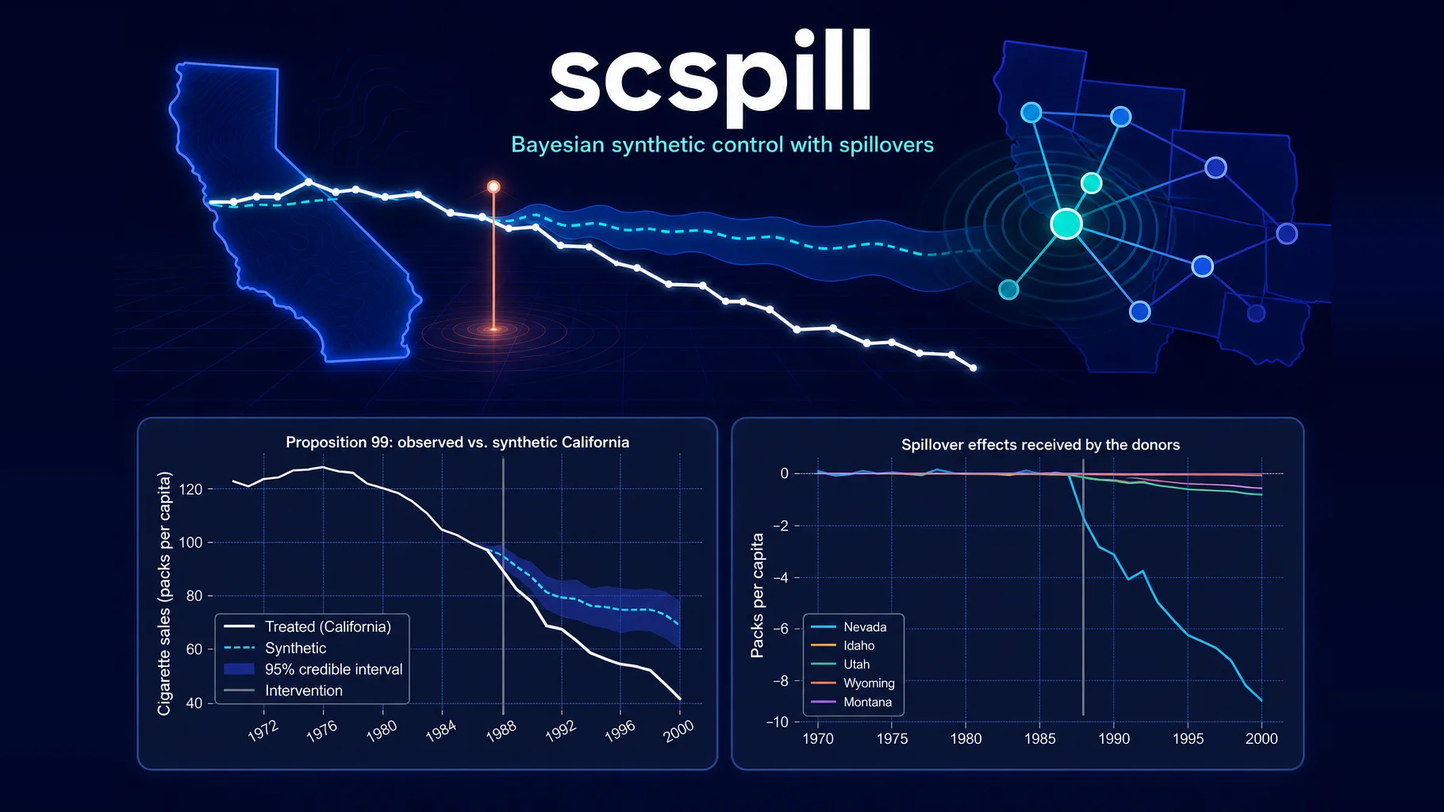
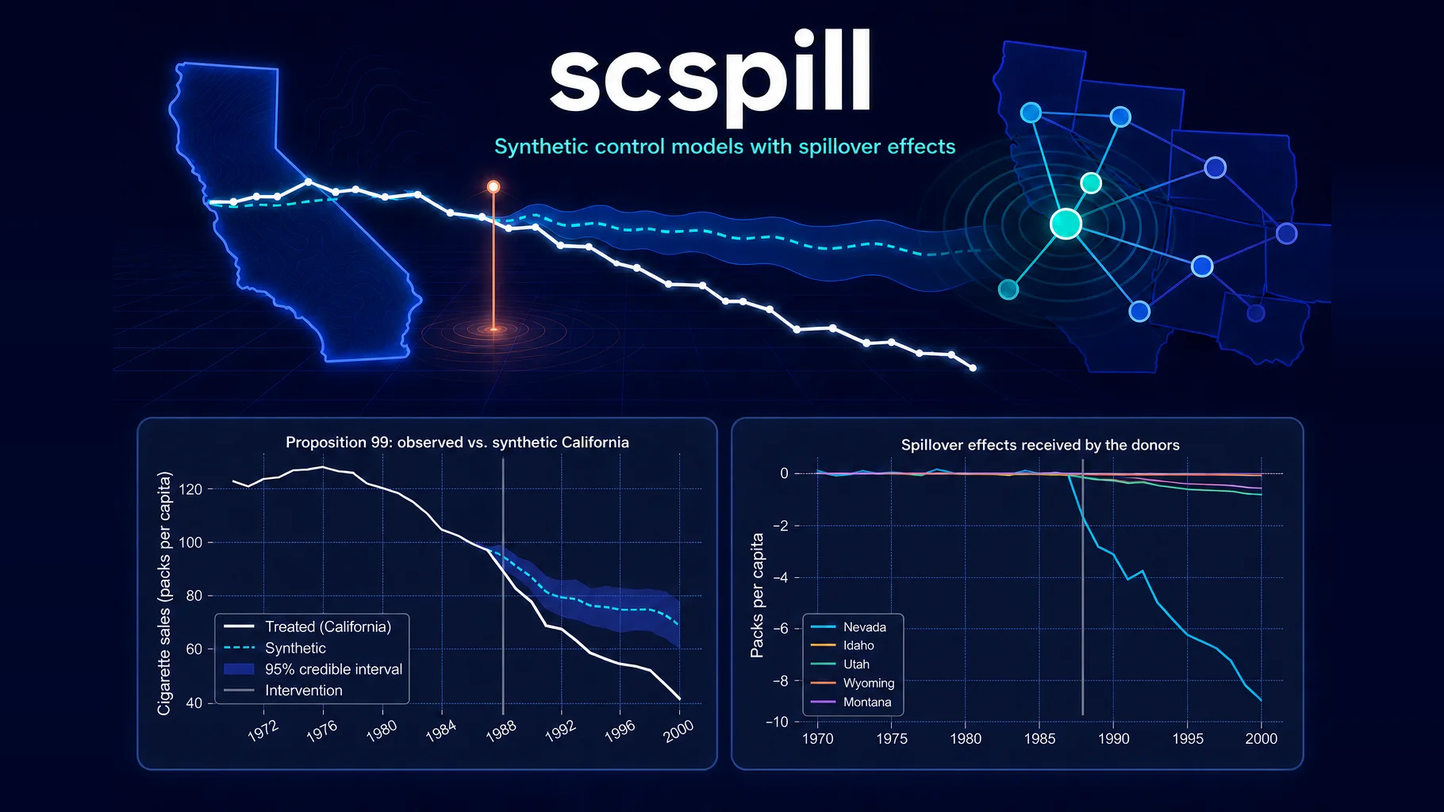
content(projects): update scspill page for library v0.2.0 (EN/ES/JA)
Upstream repositioned scspill from a single estimator to a package of
synthetic control models. The page follows: the middle card moves from
"The method" to Models (/models/), since articles/method.html is now
only a redirect stub; it names sar as the one shipping model and lists
the three roadmap models as explicitly not implemented.

Acknowledgement now mirrors the README — method and original R/C++ by
Sakaguchi & Tagawa (co-authors of the library on that basis), Python
implementation by Carlos Mendez — and adds both citations plus the new
article DOI (10.1093/ectj/utag006).

Featured image regenerated from hero-v5.png, padded 1536x1024 ->
1820x1024 for a crop-free 16:9 card. Models button uses fas layer-group
(valid in the theme's Font Awesome 5.14).

The English summary is quoted: "two estimands: the effect ..." contains
a bare ": ", which YAML would otherwise read as a mapping.

Claude-Session: https://claude.ai/code/session_01NfQ4LymHhhypi5GgLai3dD

diff --git a/content/cv/main.tex b/content/cv/main.tex
@@ -467,7 +467,7 @@ Causes and policy challenges. In Otsubo S. (Ed.), \textit{Globalization and Deve
 
 \cvitem{2026}{expdpy: A Python library to explore panel data interactively. \cvlink{https://cmg777.github.io/expdpy/}{Website}}
 \cvitem{2026}{geometrics: A Python library to study regional growth, convergence, and inequality. \cvlink{https://quarcs-lab.github.io/geometrics/}{Website}}
-\cvitem{2026}{scspill: A Python library for Bayesian synthetic control with spillover effects. \cvlink{https://quarcs-lab.github.io/scspill/}{Website}}
+\cvitem{2026}{scspill: A Python package of synthetic control models with spillover effects. \cvlink{https://quarcs-lab.github.io/scspill/}{Website}}
 
 \subsection{Databases}
 

diff --git a/content/es/projects/scspill/index.md b/content/es/projects/scspill/index.md
@@ -4,7 +4,7 @@ external_link: ""
 image:
   caption: ""
   focal_point: Smart
-summary: "Una biblioteca de Python para el control sintético bayesiano cuando el tratamiento se filtra: relaja el supuesto SUTVA mediante un canal autorregresivo espacial y estima tanto el efecto sobre la unidad tratada como el desbordamiento (spillover) que recibe cada donante, con incertidumbre bayesiana completa."
+summary: "Un paquete de Python con modelos de control sintético que abandonan el supuesto SUTVA sobre el grupo de donantes: se permite que el tratamiento alcance a los controles y cada modelo informa dos estimandos, el efecto sobre la unidad tratada, libre de contaminación, y el desbordamiento (spillover) que recibe cada donante."
 tags:
 - python
 - causal
@@ -28,10 +28,10 @@ links:
     url: "https://quarcs-lab.github.io/scspill/get-started.html"
     icon_pack: fas
     icon: rocket
-  - name: "El método"
-    url: "https://quarcs-lab.github.io/scspill/articles/method.html"
+  - name: "Modelos"
+    url: "https://quarcs-lab.github.io/scspill/models/"
     icon_pack: fas
-    icon: square-root-alt
+    icon: layer-group
   - name: "Validación"
     url: "https://quarcs-lab.github.io/scspill/articles/validation.html"
     icon_pack: fas
@@ -50,35 +50,35 @@ url_slides: ""
 url_video: ""
 ---
 
-**Control sintético cuando el tratamiento se filtra: el efecto de la política *y* el desbordamiento que recibe cada donante.**
+**Control sintético cuando el tratamiento se filtra: el efecto sobre la unidad tratada *y* el desbordamiento que recibe cada donante.**
 
-`scspill` es una implementación en Python del control sintético bayesiano con desbordamientos espaciales de [Sakaguchi y Tagawa](https://quarcs-lab.github.io/scspill/articles/method.html) (*Identification and Bayesian Inference for Synthetic Control Methods with Spillover Effects*, The Econometrics Journal). El control sintético clásico supone que los donantes no son afectados por la política; cuando el tratamiento se filtra a través de fronteras o redes comerciales, ese supuesto se incumple y la estimación queda sesgada. `scspill` relaja el supuesto SUTVA permitiendo que el tratamiento se desborde hacia el grupo de donantes mediante un **canal autorregresivo espacial** con pesos definidos por usted, e informa el efecto sobre la unidad tratada, el desbordamiento que recibe cada donante y la intensidad del desbordamiento, cada uno con incertidumbre bayesiana completa. Los pesos sintéticos emplean **regularización de tipo herradura (horseshoe) sin restricción de símplex**, de modo que los donantes pueden quedar excluidos, entrar con signo negativo o extrapolar. El estimador sigue la arquitectura de [mlsynth](https://github.com/jgreathouse9/mlsynth) —una configuración de pydantic a la entrada y un objeto de resultados estandarizado a la salida—, por lo que ambas bibliotecas se combinan con naturalidad.
+`scspill` es un paquete de Python con modelos de control sintético que abandonan el supuesto SUTVA sobre el grupo de donantes. Se permite que el tratamiento alcance a los controles y cada modelo informa dos estimandos: el efecto sobre la unidad tratada, libre de contaminación, y el efecto de desbordamiento que recibe cada donante, algo que el control sintético clásico no puede expresar en absoluto. El modelo disponible hoy, `sar`, canaliza los desbordamientos a través de los pesos espaciales que usted defina, escalados por una única intensidad ρ que se **estima en lugar de suponerse**; ajusta pesos sintéticos con contracción de tipo herradura (horseshoe) y sin restricciones, de modo que los donantes pueden quedar excluidos, entrar con signo negativo o extrapolar, y devuelve incertidumbre bayesiana completa para ambos estimandos. Cuando ρ = 0 se reduce exactamente al control sintético bayesiano de tipo herradura. La arquitectura del estimador sigue a [mlsynth](https://github.com/jgreathouse9/mlsynth) —una configuración de pydantic a la entrada y un objeto de resultados estandarizado a la salida— y los nombres de `method` coinciden con los de su despachador `SPILLSYNTH`, por lo que ambas bibliotecas se combinan con naturalidad.
 
 ### 🚀 [Primeros pasos](https://quarcs-lab.github.io/scspill/get-started.html)
 
-Estime el modelo con la Proposición 99 de California en unas diez líneas: el **ATT con un intervalo de credibilidad del 95 %**, la intensidad del desbordamiento ρ, el desbordamiento año por año que recibe cada donante, los diagnósticos MCMC y los gráficos contrafactuales.
+Estime un modelo con la Proposición 99 de California en unas diez líneas: el **ATT con un intervalo de credibilidad del 95 %**, la intensidad del desbordamiento ρ, el desbordamiento año por año que recibe cada donante, los diagnósticos MCMC y los gráficos contrafactuales.
 
 [▶ Abrir en Colab](https://colab.research.google.com/github/quarcs-lab/scspill/blob/main/notebooks/california.ipynb)
 
-### 📐 [El método](https://quarcs-lab.github.io/scspill/articles/method.html)
+### 🧬 [Modelos](https://quarcs-lab.github.io/scspill/models/)
 
-La identificación y el **muestreador bayesiano de dos etapas**: pesos sintéticos de tipo herradura, el bloque de desbordamiento SAR y Metropolis adaptativo para la intensidad del desbordamiento. También documenta las opciones por defecto que se apartan de la implementación de referencia en R: cada una cuenta con una vía de escape y una comparación que cuantifica la diferencia.
+Hoy se distribuye un modelo: [`sar`](https://quarcs-lab.github.io/scspill/models/sar.html), el control sintético bayesiano con desbordamiento autorregresivo espacial de [Sakaguchi y Tagawa (2026)](https://doi.org/10.1093/ectj/utag006). Otros tres modelos que incorporan desbordamientos están en la [hoja de ruta](https://quarcs-lab.github.io/scspill/models/#planned): el de Cao y Dowd, el control sintético inclusivo de Di Stefano y Mellace, y el SCG con interferencia parcial de Grossi y coautores. **No están implementados**, y `SCSPILLConfig` rechaza sus nombres en lugar de recurrir a otro modelo de forma silenciosa.
 
 ### 🧪 [Validación](https://quarcs-lab.github.io/scspill/articles/validation.html)
 
-La evidencia de que el muestreador es correcto: la **prueba de distribución conjunta de Geweke (2004)**, cuadrículas de sensibilidad a las distribuciones a priori, verificaciones predictivas a priori y validación cruzada frente a los intervalos de credibilidad congelados del código en R de los autores.
+La evidencia de que el muestreador de `sar` es correcto: la **prueba de distribución conjunta de Geweke (2004)**, cuadrículas de sensibilidad a las distribuciones a priori, verificaciones predictivas a priori y validación cruzada frente a los intervalos de credibilidad congelados del código en R de los autores.
 
 ## Qué incluye
 
-**Estimación** — `SCSPILL(config).fit()` devuelve el ATT y su intervalo de credibilidad, la trayectoria contrafactual, la distribución posterior de ρ, un panel de desbordamientos por tiempo y donante, y los diagnósticos MCMC.
+**`scspill`** — la capa de modelos. `SCSPILL(config).fit()` devuelve el ATT y su intervalo de credibilidad, la trayectoria contrafactual, la distribución posterior de ρ, un panel de desbordamientos por tiempo y donante, y los diagnósticos MCMC.
 
-**Validación** — `scspill.validation` implementa la prueba de distribución conjunta de Geweke, las cuadrículas de sensibilidad a las distribuciones a priori y las verificaciones predictivas a priori.
+**`scspill.validation`** — la validación del muestreador de `sar`: la prueba de distribución conjunta de Geweke, las cuadrículas de sensibilidad a las distribuciones a priori y las verificaciones predictivas a priori.
 
-**Simulación** — `scspill.simulate` reproduce el [estudio de Monte Carlo](https://quarcs-lab.github.io/scspill/articles/simulation-study.html) del artículo: un proceso generador de datos SAR sobre una retícula de contigüidad tipo torre y la comparación SCM / BSCM / SCSPILL que sustenta los cuadros 1 y 2.
+**`scspill.simulate`** — el [motor de Monte Carlo](https://quarcs-lab.github.io/scspill/articles/simulation-study.html) de `sar`: un proceso generador de datos SAR sobre una retícula de contigüidad tipo torre y la comparación SCM / BSCM / SCSPILL que sustenta los cuadros 1 y 2 del artículo.
 
-**Datos** — `scspill.data` incluye los dos casos de estudio que se describen a continuación, cada uno con su panel y sus matrices de pesos espaciales.
+**`scspill.data`** — los paneles de desbordamiento que se describen más abajo. Son independientes del modelo, así que cualquier modelo que se añada más adelante podrá usarlos sin cambios.
 
-**Validación cruzada con el paquete de replicación en R** — las distribuciones posteriores de California y Sudán se contrastan con los intervalos de credibilidad congelados en R de los autores, la cuadrícula de Monte Carlo con los cuadros congelados del artículo, y los estadísticos predictivos a priori hasta el tercer decimal.
+**`sar` está validado, no solo implementado** — se contrasta con el paquete de replicación en R de los autores: las distribuciones posteriores de California y Sudán frente a los intervalos de credibilidad congelados en R, la cuadrícula de Monte Carlo frente a los cuadros congelados del artículo, y los estadísticos predictivos a priori hasta el tercer decimal. Las opciones por defecto son *fieles al artículo*: se corrigen varios errores documentados de la implementación de referencia, cada uno con una vía de escape o una comparación que cuantifica la diferencia. Véase la [página del modelo `sar`](https://quarcs-lab.github.io/scspill/models/sar.html).
 
 ## Casos de estudio incluidos
 
@@ -101,7 +101,7 @@ Requiere Python 3.10 o superior.
 
 ## De un vistazo
 
-Cargue un caso de estudio incluido, ajuste el muestreador y lea tanto el efecto del tratamiento como los desbordamientos:
+Cargue un caso de estudio incluido, ajuste el muestreador y lea ambos estimandos:
 
 ```python
 from scspill import SCSPILL
@@ -119,7 +119,7 @@ result.diagnostics()               # ESS / R-hat / MCSE per chain
 result.plot(kind="panel")          # counterfactual | effect | top spillovers
 ```
 
-Diríjase a [Primeros pasos](https://quarcs-lab.github.io/scspill/get-started.html), [El método](https://quarcs-lab.github.io/scspill/articles/method.html) y [Validación](https://quarcs-lab.github.io/scspill/articles/validation.html) para ver el estimador en acción.
+Diríjase a [Primeros pasos](https://quarcs-lab.github.io/scspill/get-started.html), [Modelos](https://quarcs-lab.github.io/scspill/models/) y [Validación](https://quarcs-lab.github.io/scspill/articles/validation.html) para ver los estimadores en acción.
 
 ## Construido sobre
 
@@ -133,4 +133,12 @@ Diríjase a [Primeros pasos](https://quarcs-lab.github.io/scspill/get-started.ht
 
 ## Agradecimiento
 
-El método y su implementación de referencia son de Shosei Sakaguchi y Hayato Tagawa; la arquitectura del estimador sigue a [mlsynth](https://github.com/jgreathouse9/mlsynth), de Jared Greathouse. Este paquete es una adaptación independiente a Python desarrollada en el [QuaRCS Lab](https://quarcs-lab.org) (Ciencia Regional Cuantitativa y Computacional) y se distribuye bajo la licencia MIT. Si utiliza `scspill` en su investigación, cite el artículo metodológico y el software (consulte [`CITATION.cff`](https://github.com/quarcs-lab/scspill/blob/main/CITATION.cff)).
+El método y la implementación original en R/C++ son obra de Shosei Sakaguchi y Hayato Tagawa, quienes por ello figuran como coautores de esta biblioteca; la implementación en Python es de Carlos Mendez. Su [paquete de replicación](https://doi.org/10.5281/zenodo.19066186) se distribuye bajo licencia MIT, y cada versión de `scspill` se valida de forma cruzada frente a sus resultados congelados. La arquitectura del estimador sigue a [mlsynth](https://github.com/jgreathouse9/mlsynth), de Jared Greathouse; la infraestructura de documentación sigue al paquete [geometrics](https://github.com/quarcs-lab/geometrics) del QuaRCS Lab.
+
+Si utiliza `scspill`, cite tanto el software como el artículo metodológico (los metadatos legibles por máquina están en [`CITATION.cff`](https://github.com/quarcs-lab/scspill/blob/main/CITATION.cff)):
+
+> Mendez, C., Sakaguchi, S., & Tagawa, H. (2026). *Synthetic Control Models with Spillovers in Python* (version 0.2.0). <https://github.com/quarcs-lab/scspill>
+
+> Sakaguchi, S., & Tagawa, H. (2026). Identification and Bayesian Inference for Synthetic Control Methods with Spillover Effects. *The Econometrics Journal*. <https://doi.org/10.1093/ectj/utag006>
+
+Distribuido bajo la licencia MIT.

diff --git a/content/ja/projects/scspill/index.md b/content/ja/projects/scspill/index.md
@@ -4,7 +4,7 @@ external_link: ""
 image:
   caption: ""
   focal_point: Smart
-summary: 処理が漏れ出す状況におけるベイズ的合成コントロールのためのPythonライブラリ。空間自己回帰チャネルを通じてSUTVAを緩め、処理群への効果と各ドナーが受け取るスピルオーバーの双方を、完全なベイズ的不確実性とともに推定します。
+summary: ドナープールに対するSUTVAを外した合成コントロールモデルのPythonパッケージ。処理がコントロール群に及ぶことを許し、いずれのモデルも2つの推定対象——汚染を取り除いた処理群への効果と、各ドナーが受け取るスピルオーバー——を報告します。
 tags:
 - python
 - causal
@@ -28,10 +28,10 @@ links:
     url: "https://quarcs-lab.github.io/scspill/get-started.html"
     icon_pack: fas
     icon: rocket
-  - name: "手法"
-    url: "https://quarcs-lab.github.io/scspill/articles/method.html"
+  - name: "モデル"
+    url: "https://quarcs-lab.github.io/scspill/models/"
     icon_pack: fas
-    icon: square-root-alt
+    icon: layer-group
   - name: "検証"
     url: "https://quarcs-lab.github.io/scspill/articles/validation.html"
     icon_pack: fas
@@ -50,9 +50,9 @@ url_slides: ""
 url_video: ""
 ---
 
-**処理が漏れ出すときの合成コントロール — 政策効果と、各ドナーが受け取るスピルオーバーを。**
+**処理が漏れ出すときの合成コントロール — 処理群への効果と、各ドナーが受け取るスピルオーバーを。**
 
-`scspill` は、[Sakaguchi・Tagawa](https://quarcs-lab.github.io/scspill/articles/method.html)（*Identification and Bayesian Inference for Synthetic Control Methods with Spillover Effects*, The Econometrics Journal）による空間スピルオーバー付きベイズ合成コントロールのPython実装です。従来の合成コントロールは、ドナーが政策の影響を受けないと仮定します。しかし処理が国境や貿易ネットワークを越えて漏れ出すと、この仮定は成り立たず推定値にバイアスが生じます。`scspill` は、ユーザーが指定した重みによる**空間自己回帰チャネル**を通じて処理がドナープールへ波及することを許し、SUTVAを緩めます。そのうえで、処理群への効果、各ドナーが受け取るスピルオーバー、スピルオーバーの強度を、いずれも完全なベイズ的不確実性とともに報告します。合成ウェイトには**単体制約を課さないホースシュー（horseshoe）正則化**を用いるため、ドナーは除外されることも、負の値をとることも、外挿することもできます。推定器は [mlsynth](https://github.com/jgreathouse9/mlsynth) のアーキテクチャ（pydanticの設定を入力とし、標準化された結果オブジェクトを出力する）に従っており、両ライブラリは自然に組み合わせられます。
+`scspill` は、ドナープールに対するSUTVAを外した合成コントロールモデルのPythonパッケージです。処理がコントロール群に及ぶことを許し、いずれのモデルも2つの推定対象を報告します。すなわち、汚染を取り除いた処理群への効果と、各ドナーが受け取るスピルオーバー効果です。後者は従来の合成コントロールでは表現すること自体ができません。現在利用できるモデル `sar` は、ユーザーが指定した空間重みを通じてスピルオーバーを伝え、その大きさを単一の強度パラメータ ρ で調整します。この ρ は**仮定するのではなく推定されます**。合成ウェイトは制約を課さないホースシュー（horseshoe）縮小推定で求めるため、ドナーは除外されることも、負の値をとることも、外挿することもできます。そして2つの推定対象いずれについても完全なベイズ的不確実性を返します。ρ = 0 のとき、モデルはベイズ的ホースシュー合成コントロールに厳密に一致します。推定器のアーキテクチャは [mlsynth](https://github.com/jgreathouse9/mlsynth)（pydanticの設定を入力とし、標準化された結果オブジェクトを出力する）に従い、`method` の名称は同ライブラリの `SPILLSYNTH` ディスパッチャと一致するため、両者は自然に組み合わせられます。
 
 ### 🚀 [はじめに](https://quarcs-lab.github.io/scspill/get-started.html)
 
@@ -60,25 +60,25 @@ url_video: ""
 
 [▶ Colab で開く](https://colab.research.google.com/github/quarcs-lab/scspill/blob/main/notebooks/california.ipynb)
 
-### 📐 [手法](https://quarcs-lab.github.io/scspill/articles/method.html)
+### 🧬 [モデル](https://quarcs-lab.github.io/scspill/models/)
 
-識別と**2段階のベイズサンプラー**を解説します。ホースシュー合成ウェイト、SARスピルオーバーブロック、スピルオーバー強度に対する適応的メトロポリス法。さらに、R版の参照実装と異なる既定の設定についても記載しており、それぞれに従来挙動へ戻す手段と差分を定量化したベンチマークが用意されています。
+現在提供されているモデルは1つ、[`sar`](https://quarcs-lab.github.io/scspill/models/sar.html) です。[Sakaguchi・Tagawa (2026)](https://doi.org/10.1093/ectj/utag006) による、空間自己回帰型スピルオーバーを備えたベイズ合成コントロールです。さらに3つのスピルオーバー対応モデルが[ロードマップ](https://quarcs-lab.github.io/scspill/models/#planned)にあります。Cao・Dowd のモデル、Di Stefano・Mellace の包括的合成コントロール、Grossi ほかによる部分干渉SCGです。これらは**未実装**であり、`SCSPILLConfig` はこれらの名称を黙って別のモデルで代替せず、明示的に拒否します。
 
 ### 🧪 [検証](https://quarcs-lab.github.io/scspill/articles/validation.html)
 
-サンプラーが正しいことを示す証拠です。**Geweke (2004) の同時分布検定**、事前分布の感度グリッド、事前予測チェック、そして著者らのR実装による固定済み信用区間との交差検証。
+`sar` のサンプラーが正しいことを示す証拠です。**Geweke (2004) の同時分布検定**、事前分布の感度グリッド、事前予測チェック、そして著者らのR実装による固定済み信用区間との交差検証。
 
 ## 機能の概要
 
-**推定** — `SCSPILL(config).fit()` は、ATTとその信用区間、反事実の経路、ρ の事後分布、時点×ドナーのスピルオーバーパネル、MCMC診断を返します。
+**`scspill`** — モデル層。`SCSPILL(config).fit()` は、ATTとその信用区間、反事実の経路、ρ の事後分布、時点×ドナーのスピルオーバーパネル、MCMC診断を返します。
 
-**検証** — `scspill.validation` は、Gewekeの同時分布検定、事前分布の感度グリッド、事前予測チェックを実装します。
+**`scspill.validation`** — `sar` のサンプラー検証。Gewekeの同時分布検定、事前分布の感度グリッド、事前予測チェック。
 
-**シミュレーション** — `scspill.simulate` は、論文の[モンテカルロ研究](https://quarcs-lab.github.io/scspill/articles/simulation-study.html)を再現します。ルーク型格子によるSARデータ生成過程と、表1・表2の基礎となる SCM / BSCM / SCSPILL の比較です。
+**`scspill.simulate`** — `sar` の[モンテカルロエンジン](https://quarcs-lab.github.io/scspill/articles/simulation-study.html)。ルーク型格子によるSARデータ生成過程と、論文の表1・表2の基礎となる SCM / BSCM / SCSPILL の比較です。
 
-**データ** — `scspill.data` には、以下の2つのケーススタディが、パネルと空間重み行列とともに同梱されています。
+**`scspill.data`** — 以下のスピルオーバーパネル。モデルに依存しない形式のため、今後追加されるモデルでもそのまま利用できます。
 
-**R版レプリケーションパッケージとの交差検証** — カリフォルニアとスーダンの事後分布は著者らのR版の固定済み信用区間と、モンテカルロのグリッドは論文の固定済み表と、事前予測統計量は小数第3位まで照合されています。
+**`sar` は実装されているだけでなく検証されています** — 著者らのRレプリケーションパッケージと交差検証されています。カリフォルニアとスーダンの事後分布は固定済みのR信用区間と、モンテカルロのグリッドは論文の固定済みの表と、事前予測統計量は小数第3位まで照合されています。既定の設定は*論文に忠実*で、参照実装に残る複数の既知の不具合が修正されており、それぞれに従来挙動へ戻す手段か差分を定量化したベンチマークが用意されています。詳しくは [`sar` モデルのページ](https://quarcs-lab.github.io/scspill/models/sar.html)をご覧ください。
 
 ## 付属のケーススタディ
 
@@ -101,7 +101,7 @@ Python 3.10 以上が必要です。
 
 ## ひと目で
 
-付属のケーススタディを読み込み、サンプラーを実行して、処理効果とスピルオーバーの双方を確認します。
+付属のケーススタディを読み込み、サンプラーを実行して、2つの推定対象を確認します。
 
 ```python
 from scspill import SCSPILL
@@ -119,7 +119,7 @@ result.diagnostics()               # ESS / R-hat / MCSE per chain
 result.plot(kind="panel")          # counterfactual | effect | top spillovers
 ```
 
-推定器の動きは、[はじめに](https://quarcs-lab.github.io/scspill/get-started.html)、[手法](https://quarcs-lab.github.io/scspill/articles/method.html)、[検証](https://quarcs-lab.github.io/scspill/articles/validation.html)でご覧いただけます。
+推定器の動きは、[はじめに](https://quarcs-lab.github.io/scspill/get-started.html)、[モデル](https://quarcs-lab.github.io/scspill/models/)、[検証](https://quarcs-lab.github.io/scspill/articles/validation.html)でご覧いただけます。
 
 ## 基盤
 
@@ -133,4 +133,12 @@ result.plot(kind="panel")          # counterfactual | effect | top spillovers
 
 ## 謝辞
 
-手法とその参照実装は Shosei Sakaguchi 氏と Hayato Tagawa 氏によるものです。推定器のアーキテクチャは Jared Greathouse 氏の [mlsynth](https://github.com/jgreathouse9/mlsynth) に倣っています。本パッケージは [QuaRCS Lab](https://quarcs-lab.org)（計量地域・計算科学）で開発された独立のPython移植版であり、MITライセンスで公開されています。研究で `scspill` をご利用の際は、方法論の論文とソフトウェア（[`CITATION.cff`](https://github.com/quarcs-lab/scspill/blob/main/CITATION.cff) を参照）を引用してください。
+手法とオリジナルのR/C++実装は Shosei Sakaguchi 氏と Hayato Tagawa 氏によるものであり、両氏はその貢献に基づき本ライブラリの共著者として記載されています。Python実装は Carlos Mendez によるものです。両氏の[レプリケーションパッケージ](https://doi.org/10.5281/zenodo.19066186)はMITライセンスで公開されており、`scspill` の各リリースはその固定済みの結果と交差検証されています。推定器のアーキテクチャは Jared Greathouse 氏の [mlsynth](https://github.com/jgreathouse9/mlsynth) に、ドキュメント基盤は QuaRCS Lab の [geometrics](https://github.com/quarcs-lab/geometrics) パッケージに倣っています。
+
+`scspill` をご利用の際は、ソフトウェアと方法論の論文の両方を引用してください（機械可読なメタデータは [`CITATION.cff`](https://github.com/quarcs-lab/scspill/blob/main/CITATION.cff) にあります）。
+
+> Mendez, C., Sakaguchi, S., & Tagawa, H. (2026). *Synthetic Control Models with Spillovers in Python* (version 0.2.0). <https://github.com/quarcs-lab/scspill>
+
+> Sakaguchi, S., & Tagawa, H. (2026). Identification and Bayesian Inference for Synthetic Control Methods with Spillover Effects. *The Econometrics Journal*. <https://doi.org/10.1093/ectj/utag006>
+
+MITライセンスで公開されています。

diff --git a/content/projects/scspill/index.md b/content/projects/scspill/index.md
@@ -4,7 +4,7 @@ external_link: ""
 image:
   caption: ""
   focal_point: Smart
-summary: A Python library for Bayesian synthetic control when the treatment leaks — it relaxes SUTVA through a spatial-autoregressive channel and estimates both the effect on the treated unit and the spillover received by every donor, with full Bayesian uncertainty.
+summary: "A Python package of synthetic control models that drop SUTVA on the donor pool — the treatment is allowed to reach the controls, and every model reports two estimands: the effect on the treated unit, purged of contamination, and the spillover received by each donor."
 tags:
 - python
 - causal
@@ -28,10 +28,10 @@ links:
     url: "https://quarcs-lab.github.io/scspill/get-started.html"
     icon_pack: fas
     icon: rocket
-  - name: "The method"
-    url: "https://quarcs-lab.github.io/scspill/articles/method.html"
+  - name: "Models"
+    url: "https://quarcs-lab.github.io/scspill/models/"
     icon_pack: fas
-    icon: square-root-alt
+    icon: layer-group
   - name: "Validation"
     url: "https://quarcs-lab.github.io/scspill/articles/validation.html"
     icon_pack: fas
@@ -50,35 +50,35 @@ url_slides: ""
 url_video: ""
 ---
 
-**Synthetic control when the treatment leaks — the policy effect *and* the spillover received by every donor.**
+**Synthetic control when the treatment leaks — the effect on the treated unit *and* the spillover received by every donor.**
 
-`scspill` is a Python implementation of the Bayesian spatial-spillover synthetic control of [Sakaguchi & Tagawa](https://quarcs-lab.github.io/scspill/articles/method.html) (*Identification and Bayesian Inference for Synthetic Control Methods with Spillover Effects*, The Econometrics Journal). Classical synthetic control assumes the donors are untouched by the policy; when the treatment leaks across borders or trade networks that assumption fails and the estimate is biased. `scspill` relaxes SUTVA by letting the treatment spill over to the donor pool through a **spatial-autoregressive channel** with user-supplied weights, and reports the effect on the treated unit, the spillover received by each donor, and the spillover intensity — each with full Bayesian uncertainty. The synthetic weights use **horseshoe regularization without a simplex constraint**, so donors may be dropped, enter negatively, or extrapolate. The estimator follows the [mlsynth](https://github.com/jgreathouse9/mlsynth) architecture — a pydantic config in, a standardized results object out — so the two libraries compose naturally.
+`scspill` is a Python package of synthetic control models that drop SUTVA on the donor pool. The treatment is allowed to reach the controls, and every model reports two estimands: the effect on the treated unit, purged of the contamination, and the spillover effect received by each donor — something classical synthetic control cannot express at all. The model available today, `sar`, routes spillovers through spatial weights you supply, scaled by a single intensity ρ that is **estimated rather than assumed**; it fits unconstrained horseshoe-shrunk synthetic weights, so donors may be dropped, enter negatively, or extrapolate, and it returns full Bayesian uncertainty for both estimands. At ρ = 0 it collapses exactly to the Bayesian horseshoe synthetic control. The estimator architecture follows [mlsynth](https://github.com/jgreathouse9/mlsynth) — a pydantic config in, a standardized results object out — and the `method` names match its `SPILLSYNTH` dispatcher, so the two libraries compose naturally.
 
 ### 🚀 [Get started](https://quarcs-lab.github.io/scspill/get-started.html)
 
-Fit the model on California's Proposition 99 in about ten lines: the **ATT with a 95% credible interval**, the spillover intensity ρ, the year-by-year spillover received by every donor, MCMC diagnostics, and counterfactual plots.
+Fit a model on California's Proposition 99 in about ten lines: the **ATT with a 95% credible interval**, the spillover intensity ρ, the year-by-year spillover received by every donor, MCMC diagnostics, and counterfactual plots.
 
 [▶ Open in Colab](https://colab.research.google.com/github/quarcs-lab/scspill/blob/main/notebooks/california.ipynb)
 
-### 📐 [The method](https://quarcs-lab.github.io/scspill/articles/method.html)
+### 🧬 [Models](https://quarcs-lab.github.io/scspill/models/)
 
-Identification and the **two-step Bayesian sampler**: horseshoe synthetic weights, the SAR spillover block, and adaptive Metropolis for the spillover intensity. It also documents the defaults that depart from the reference R implementation — each departure has an escape hatch and a benchmark quantifying the difference.
+One model ships today: [`sar`](https://quarcs-lab.github.io/scspill/models/sar.html), the Bayesian spatial-autoregressive spillover SCM of [Sakaguchi & Tagawa (2026)](https://doi.org/10.1093/ectj/utag006). Three further spillover-aware models are on the [roadmap](https://quarcs-lab.github.io/scspill/models/#planned) — Cao & Dowd, the inclusive SCM of Di Stefano & Mellace, and the partial-interference SCG of Grossi et al. They are **not implemented**, and `SCSPILLConfig` rejects their names rather than falling back silently.
 
 ### 🧪 [Validation](https://quarcs-lab.github.io/scspill/articles/validation.html)
 
-Evidence that the sampler is correct: the **Geweke (2004) joint distribution test**, prior-sensitivity grids, prior predictive checks, and cross-validation against the authors' frozen R credible intervals.
+Evidence that the `sar` sampler is correct: the **Geweke (2004) joint distribution test**, prior-sensitivity grids, prior predictive checks, and cross-validation against the authors' frozen R credible intervals.
 
 ## What's inside
 
-**Estimation** — `SCSPILL(config).fit()` returns the ATT and its credible interval, the counterfactual path, the ρ posterior, a time-by-donor spillover panel, and MCMC diagnostics.
+**`scspill`** — the model layer. `SCSPILL(config).fit()` returns the ATT and its credible interval, the counterfactual path, the ρ posterior, a time-by-donor spillover panel, and MCMC diagnostics.
 
-**Validation** — `scspill.validation` implements the Geweke joint distribution test of the sampler, prior-sensitivity grids, and prior predictive checks.
+**`scspill.validation`** — `sar`'s sampler validation: the Geweke joint distribution test, prior-sensitivity grids, and prior predictive checks.
 
-**Simulation** — `scspill.simulate` reproduces the paper's [Monte Carlo study](https://quarcs-lab.github.io/scspill/articles/simulation-study.html): a rook-lattice SAR data-generating process and the SCM / BSCM / SCSPILL comparison behind Tables 1–2.
+**`scspill.simulate`** — `sar`'s [Monte Carlo engine](https://quarcs-lab.github.io/scspill/articles/simulation-study.html): a rook-lattice SAR data-generating process and the SCM / BSCM / SCSPILL comparison behind Tables 1–2 of the paper.
 
-**Data** — `scspill.data` ships the two case studies below, each with its panel and its spatial weights matrices.
+**`scspill.data`** — the bundled spillover panels below. They are model-agnostic, so any model added later can use them unchanged.
 
-**Cross-validated against the R replication package** — the California and Sudan posteriors are checked against the authors' frozen R credible intervals, the Monte Carlo grid against the paper's frozen tables, and the prior predictive statistics to three decimals.
+**`sar` is validated, not just implemented** — it is cross-validated against the authors' R replication package: the California and Sudan posteriors against the frozen R credible intervals, the Monte Carlo grid against the paper's frozen tables, and the prior predictive statistics to three decimals. The defaults are *paper-correct*: several documented bugs of the reference implementation are fixed, each with an escape hatch or a benchmark quantifying the difference — see the [`sar` model page](https://quarcs-lab.github.io/scspill/models/sar.html).
 
 ## Bundled case studies
 
@@ -101,7 +101,7 @@ Requires Python 3.10+.
 
 ## At a glance
 
-Load a bundled case study, fit the sampler, and read off both the treatment effect and the spillovers:
+Load a bundled case study, fit the sampler, and read off both estimands:
 
 ```python
 from scspill import SCSPILL
@@ -119,7 +119,7 @@ result.diagnostics()               # ESS / R-hat / MCSE per chain
 result.plot(kind="panel")          # counterfactual | effect | top spillovers
 ```
 
-Head to [Get started](https://quarcs-lab.github.io/scspill/get-started.html), [The method](https://quarcs-lab.github.io/scspill/articles/method.html) and [Validation](https://quarcs-lab.github.io/scspill/articles/validation.html) to see the estimator in action.
+Head to [Get started](https://quarcs-lab.github.io/scspill/get-started.html), [Models](https://quarcs-lab.github.io/scspill/models/) and [Validation](https://quarcs-lab.github.io/scspill/articles/validation.html) to see the estimators in action.
 
 ## Built on
 
@@ -133,4 +133,12 @@ Head to [Get started](https://quarcs-lab.github.io/scspill/get-started.html), [T
 
 ## Acknowledgement
 
-The method and its reference implementation are by Shosei Sakaguchi and Hayato Tagawa; the estimator architecture follows Jared Greathouse's [mlsynth](https://github.com/jgreathouse9/mlsynth). This package is an independent Python port developed at the [QuaRCS Lab](https://quarcs-lab.org) (Quantitative Regional and Computational Science) and released under the MIT license. If you use `scspill` in your research, please cite the methodological article and the software (see [`CITATION.cff`](https://github.com/quarcs-lab/scspill/blob/main/CITATION.cff)).
+The method and the original R/C++ implementation are the work of Shosei Sakaguchi and Hayato Tagawa, who are credited as co-authors of this library on that basis; the Python implementation is by Carlos Mendez. Their [replication package](https://doi.org/10.5281/zenodo.19066186) is MIT-licensed, and every release of `scspill` is cross-validated against its frozen results. The estimator architecture follows Jared Greathouse's [mlsynth](https://github.com/jgreathouse9/mlsynth); the documentation stack follows the QuaRCS Lab's [geometrics](https://github.com/quarcs-lab/geometrics) package.
+
+If you use `scspill`, please cite both the software and the methodological article (machine-readable metadata lives in [`CITATION.cff`](https://github.com/quarcs-lab/scspill/blob/main/CITATION.cff)):
+
+> Mendez, C., Sakaguchi, S., & Tagawa, H. (2026). *Synthetic Control Models with Spillovers in Python* (version 0.2.0). <https://github.com/quarcs-lab/scspill>
+
+> Sakaguchi, S., & Tagawa, H. (2026). Identification and Bayesian Inference for Synthetic Control Methods with Spillover Effects. *The Econometrics Journal*. <https://doi.org/10.1093/ectj/utag006>
+
+Released under the MIT license.
